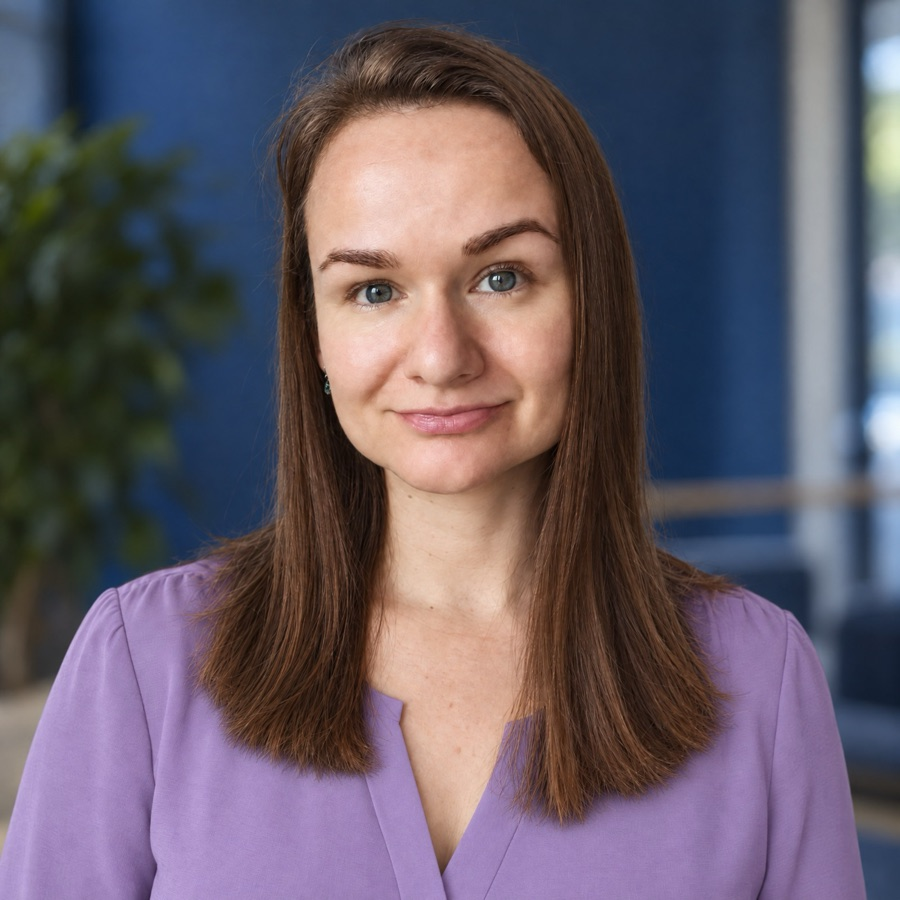
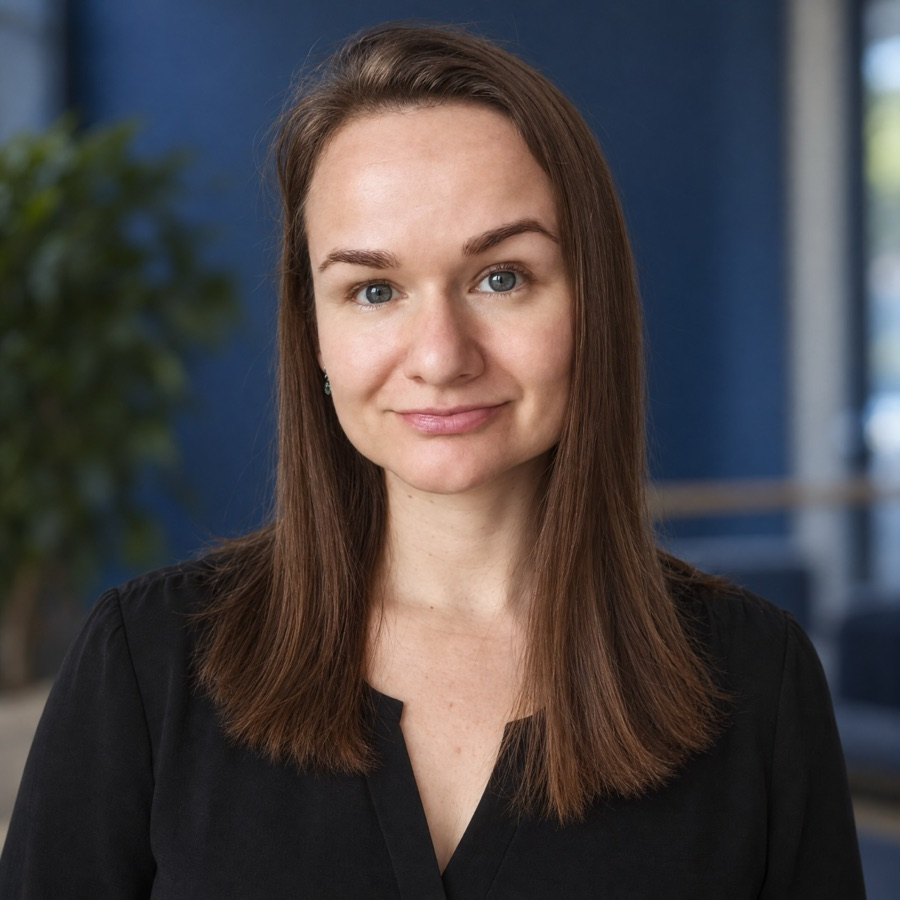
chore(evento): refine Organização labels and sponsor tiers
Capitalize and append "do LAMIA" to the Comunicação and Eventos roles,
move ACISA to the realização tier alongside LAMIA and UTFPR, and update
Adriana Sangalletti's photo.

Changed region(s): [[0.0, 0.5911, 0.9644, 1.0], [0.9644, 0.4978, 1.0, 0.6844], [0.9956, 0.3733, 1.0, 0.4044]]

diff --git a/frontend/public/evento/dados-ideia.js b/frontend/public/evento/dados-ideia.js
@@ -27,8 +27,8 @@
     ],
     organizacao: [
       { id: "o2", ordem: 1, nome: "Arlete Beuren", titulo: "Pesquisadora do LAMIA", foto: "/evento/assets/arlete-beuren.jpg" },
-      { id: "o1", ordem: 2, nome: "Ilzo F. Figueiredo", titulo: "Assessoria de comunicação", foto: "/evento/assets/comunicacao.jpg" },
-      { id: "o3", ordem: 3, nome: "Adriana Sangalletti", titulo: "Assessoria de eventos", foto: "/evento/assets/adriana.jpg" }
+      { id: "o1", ordem: 2, nome: "Ilzo F. Figueiredo", titulo: "Assessoria de Comunicação do LAMIA", foto: "/evento/assets/comunicacao.jpg" },
+      { id: "o3", ordem: 3, nome: "Adriana Sangalletti", titulo: "Assessoria de Eventos do LAMIA", foto: "/evento/assets/adriana.jpg" }
     ],
     programacao: [
       { id: "p1", ordem: 1, horario: "13:00 às 13:30", titulo: "Credenciamento e boas-vindas", legenda: "", nome: "" },
@@ -40,7 +40,7 @@
     apoiadores: [
       { id: "a1", ordem: 1, categoria: "Realização", nome: "LAMIA", logo: "/evento/assets/lamia-logo.png", link: "https://lamia.sh.utfpr.edu.br" },
       { id: "a2", ordem: 2, categoria: "Realização", nome: "UTFPR", logo: "/evento/assets/utfpr.png", link: "https://www.utfpr.edu.br/campus/santahelena" },
-      { id: "a3", ordem: 3, categoria: "Parceria", nome: "ACISA Santa Helena", logo: "/evento/assets/acisa.webp", link: "" }
+      { id: "a3", ordem: 3, categoria: "Realização", nome: "ACISA Santa Helena", logo: "/evento/assets/acisa.webp", link: "" }
     ],
     vagasParceria: 4,
     acesso: { usuario: "", senha: "" },
